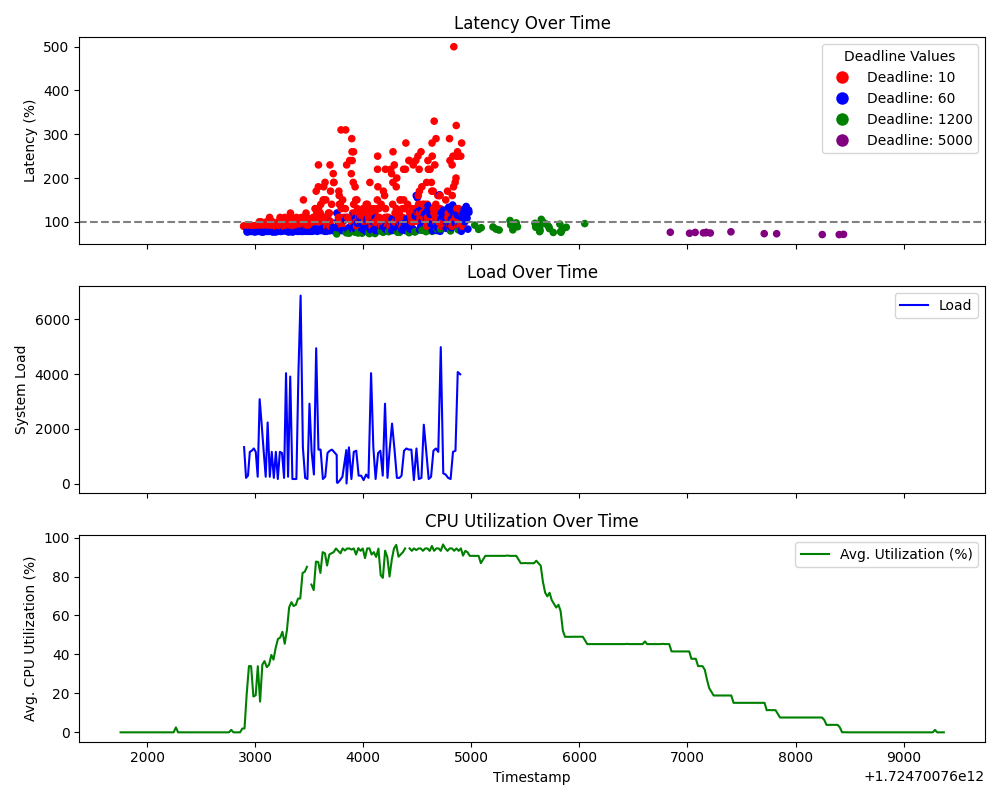
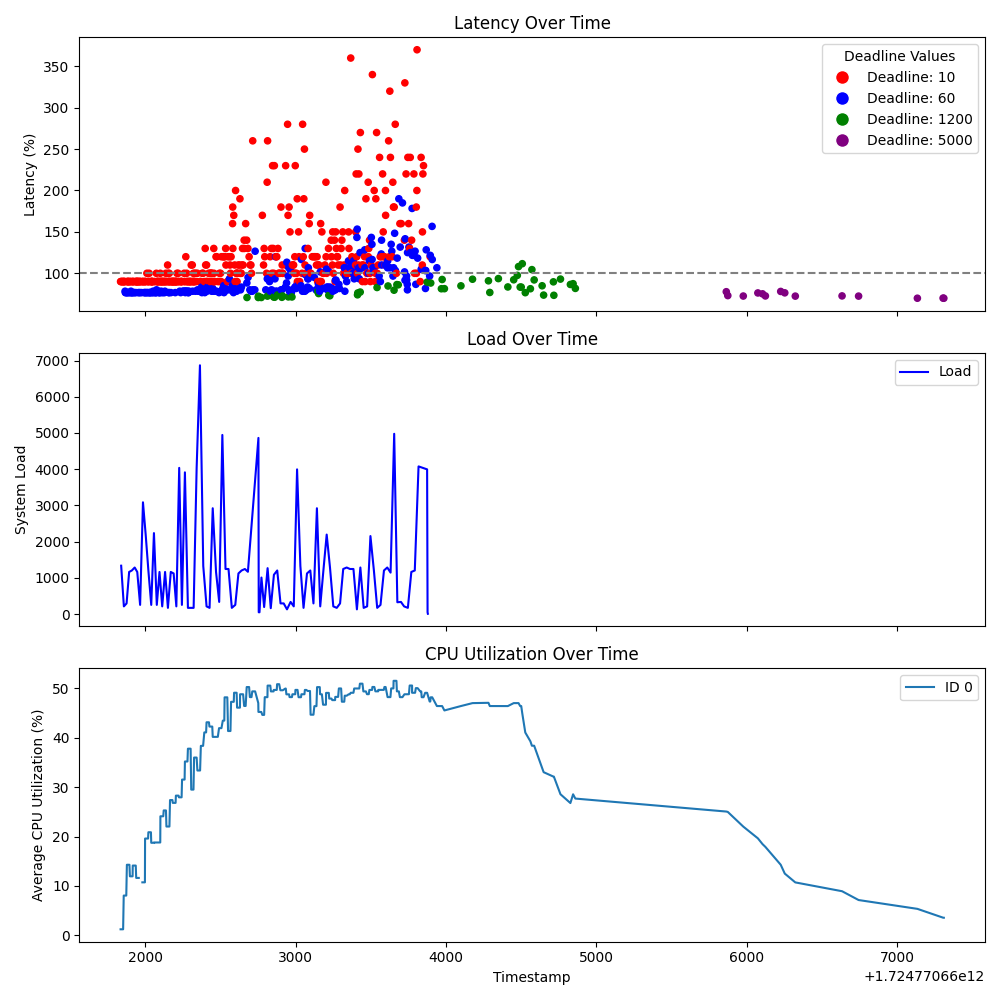
have the lb collect the util info and print it, in order to support potentially multiple dispatchers

diff --git a/gen_graph.py b/gen_graph.py
@@ -1,12 +1,12 @@
 import pandas as pd
 import matplotlib.pyplot as plt
-import numpy as np
+from collections import defaultdict
 
 # Initialize dictionaries to store data
 load_data = {}
-util_data = {}
 latency_data = {}
 deadline_data = {}
+util_data = defaultdict(list)  # Using defaultdict to handle multiple IDs
 
 # Read load.txt and store data
 with open('load.txt', 'r') as f:
@@ -21,8 +21,12 @@ with open('util.txt', 'r') as f:
     for line in f:
         timestamp, util_values = line.strip().split(" -- ")
         timestamp = int(timestamp)
-        util_values = [float(val.split(": ")[1]) for val in util_values.split(",")[:-1]]
-        util_data[timestamp] = util_values
+        id_util_pairs = util_values.split(", ")
+        for pair in id_util_pairs:
+            id, utilization = pair.split(": ")
+            id = int(id)
+            utilization = float(utilization)
+            util_data[id].append((timestamp, utilization))
 
 # Read latency.txt and store data
 with open('latency.txt', 'r') as f:
@@ -37,7 +41,6 @@ with open('latency.txt', 'r') as f:
 
 # Convert dictionaries to Pandas DataFrames for easier manipulation
 load_df = pd.DataFrame(list(load_data.items()), columns=['Timestamp', 'Load'])
-util_df = pd.DataFrame(list(util_data.items()), columns=['Timestamp', 'Utilization'])
 latency_df = pd.DataFrame(list(latency_data.items()), columns=['Timestamp', 'Latency'])
 deadline_df = pd.DataFrame(list(deadline_data.items()), columns=['Timestamp', 'Deadline'])
 
@@ -56,7 +59,7 @@ colors = {
 latency_df['Color'] = latency_df['Deadline'].map(colors)
 
 # Plotting
-fig, axes = plt.subplots(3, 1, figsize=(10, 8), sharex=True)
+fig, axes = plt.subplots(3, 1, figsize=(10, 10), sharex=True)
 
 # Latency plot with colored dots based on deadline values
 sc = axes[0].scatter(latency_df['Timestamp'], latency_df['Latency'],
@@ -77,11 +80,12 @@ axes[1].set_ylabel('System Load')
 axes[1].set_title('Load Over Time')
 axes[1].legend()
 
-# Utilization plot
-# Assuming CPU indices are consistent across all timestamps
-util_df['Average Utilization'] = util_df['Utilization'].apply(lambda x: sum(x)/len(x))
-axes[2].plot(util_df['Timestamp'], util_df['Average Utilization'], label='Avg. Utilization (%)', color='green')
-axes[2].set_ylabel('Avg. CPU Utilization (%)')
+# Utilization plot with different lines for each ID
+for id, data in util_data.items():
+    data_df = pd.DataFrame(data, columns=['Timestamp', 'Utilization'])
+    axes[2].plot(data_df['Timestamp'], data_df['Utilization'], label=f'ID {id}')
+
+axes[2].set_ylabel('Average CPU Utilization (%)')
 axes[2].set_title('CPU Utilization Over Time')
 axes[2].legend()
 
@@ -89,3 +93,101 @@ axes[2].legend()
 plt.xlabel('Timestamp')
 plt.tight_layout()
 plt.savefig('plot.png')
+
+
+
+
+
+
+
+# import pandas as pd
+# import matplotlib.pyplot as plt
+# import numpy as np
+
+# # Initialize dictionaries to store data
+# load_data = {}
+# util_data = {}
+# latency_data = {}
+# deadline_data = {}
+
+# # Read load.txt and store data
+# with open('load.txt', 'r') as f:
+#     for line in f:
+#         timestamp, load_value = line.strip().split(", load: ")
+#         timestamp = int(timestamp)
+#         load_value = int(load_value)
+#         load_data[timestamp] = load_value
+
+# # Read util.txt and store data
+# with open('util.txt', 'r') as f:
+#     for line in f:
+#         timestamp, util_values = line.strip().split(" -- ")
+#         timestamp = int(timestamp)
+#         util_values = [float(val.split(": ")[1]) for val in util_values.split(",")[:-1]]
+#         util_data[timestamp] = util_values
+
+# # Read latency.txt and store data
+# with open('latency.txt', 'r') as f:
+#     for line in f:
+#         parts = line.strip().split(", ")
+#         timestamp = int(parts[0].split(" - latency: ")[0])
+#         outside_time = int(parts[1].split(": ")[1][:-1])
+#         deadline = int(parts[2].split(": ")[1])
+#         latency_percentage = (outside_time / deadline) * 100
+#         latency_data[timestamp] = latency_percentage
+#         deadline_data[timestamp] = deadline
+
+# # Convert dictionaries to Pandas DataFrames for easier manipulation
+# load_df = pd.DataFrame(list(load_data.items()), columns=['Timestamp', 'Load'])
+# util_df = pd.DataFrame(list(util_data.items()), columns=['Timestamp', 'Utilization'])
+# latency_df = pd.DataFrame(list(latency_data.items()), columns=['Timestamp', 'Latency'])
+# deadline_df = pd.DataFrame(list(deadline_data.items()), columns=['Timestamp', 'Deadline'])
+
+# # Merge latency_df and deadline_df
+# latency_df = latency_df.merge(deadline_df, on='Timestamp')
+
+# # Define colors for each distinct deadline value
+# colors = {
+#     10: 'red',   # Example color for deadline value 1000
+#     60: 'blue',  # Example color for deadline value 2000
+#     1200: 'green', # Example color for deadline value 3000
+#     5000: 'purple' # Example color for deadline value 4000
+# }
+
+# # Map the colors to the deadlines
+# latency_df['Color'] = latency_df['Deadline'].map(colors)
+
+# # Plotting
+# fig, axes = plt.subplots(3, 1, figsize=(10, 8), sharex=True)
+
+# # Latency plot with colored dots based on deadline values
+# sc = axes[0].scatter(latency_df['Timestamp'], latency_df['Latency'],
+#                      c=latency_df['Color'], marker='o', s=20)
+# axes[0].axhline(y=100, color='gray', linestyle='--', label='Threshold: 100')
+# axes[0].set_ylabel('Latency (%)')
+# axes[0].set_title('Latency Over Time')
+# axes[0].legend()
+
+# # Create a legend manually
+# handles = [plt.Line2D([0], [0], marker='o', color='w', markerfacecolor=color, markersize=10, label=f'Deadline: {deadline}')
+#            for deadline, color in colors.items()]
+# axes[0].legend(handles=handles, title='Deadline Values')
+
+# # Load plot
+# axes[1].plot(load_df['Timestamp'], load_df['Load'], label='Load', color='blue')
+# axes[1].set_ylabel('System Load')
+# axes[1].set_title('Load Over Time')
+# axes[1].legend()
+
+# # Utilization plot
+# # Assuming CPU indices are consistent across all timestamps
+# util_df['Average Utilization'] = util_df['Utilization'].apply(lambda x: sum(x)/len(x))
+# axes[2].plot(util_df['Timestamp'], util_df['Average Utilization'], label='Avg. Utilization (%)', color='green')
+# axes[2].set_ylabel('Avg. CPU Utilization (%)')
+# axes[2].set_title('CPU Utilization Over Time')
+# axes[2].legend()
+
+# # Formatting the x-axis with timestamps
+# plt.xlabel('Timestamp')
+# plt.tight_layout()
+# plt.savefig('plot.png')

diff --git a/dispatcher/website_ex_srv.h b/dispatcher/website_ex_srv.h
@@ -48,8 +48,7 @@ class WebsiteServerImp final {
     cq_->Shutdown();
   }
 
-  WebsiteServerImp() {}
-  WebsiteServerImp(Queue* q) : proc_queue_(q), global_start_(std::chrono::high_resolution_clock::now()) {}
+  WebsiteServerImp(Queue* q, float* curr_util, std::mutex& util_lock) : proc_queue_(q), curr_util_(curr_util), util_lock_(util_lock) {}
 
   // There is no shutdown handling in this code.
   void Run(string port) {
@@ -70,8 +69,8 @@ class WebsiteServerImp final {
  // Class encompasing the state and logic needed to serve a request.
   class CallData {
    public:
-    CallData(WebsiteServer::AsyncService * service, ServerCompletionQueue* cq, Queue* q, std::chrono::high_resolution_clock::time_point global_start)
-        : service_(service), cq_(cq), responder_(&ctx_), status_(CREATE), p_q_(q), g_s_(global_start) {
+    CallData(WebsiteServer::AsyncService * service, ServerCompletionQueue* cq, Queue* q, float *curr_util, std::mutex& util_lock)
+        : service_(service), cq_(cq), responder_(&ctx_), status_(CREATE), p_q_(q), curr_util_(curr_util), util_lock_(util_lock) {
       Proceed();
     }
 
@@ -82,7 +81,7 @@ class WebsiteServerImp final {
         service_->RequestMakeCall(&ctx_, &request_, &responder_, cq_, cq_,
                                   this);
       } else if (status_ == PROCESS) {
-        new CallData(service_, cq_, p_q_, g_s_);
+        new CallData(service_, cq_, p_q_, curr_util_, util_lock_);
 
         auto start_time = std::chrono::high_resolution_clock::now();
 
@@ -162,6 +161,9 @@ class WebsiteServerImp final {
         reply_.set_retval(sum);
         reply_.set_rusage(runtime);
         reply_.set_timepassed(time_since_(start_time));
+        util_lock_.lock();
+        reply_.set_currutil(*curr_util_);
+        util_lock_.unlock();
 
         status_ = FINISH;
         responder_.Finish(reply_, Status::OK, this);
@@ -216,7 +218,8 @@ class WebsiteServerImp final {
     CallStatus status_; 
 
     Queue* p_q_;
-    std::chrono::high_resolution_clock::time_point g_s_;
+    float *curr_util_;
+    std::mutex& util_lock_;
   };
 
 
@@ -230,7 +233,7 @@ class WebsiteServerImp final {
         cout << "set affinity had an error" << endl;
     }
     
-    new CallData(&service_, cq_.get(), proc_queue_, global_start_);
+    new CallData(&service_, cq_.get(), proc_queue_, curr_util_, util_lock_);
     void* tag;  // uniquely identifies a request.
     bool ok;
     std::vector<std::thread> threads;
@@ -261,6 +264,7 @@ class WebsiteServerImp final {
   WebsiteServer::AsyncService service_;
   std::unique_ptr<Server> server_;
   Queue* proc_queue_;
-  std::chrono::high_resolution_clock::time_point global_start_;
+  float *curr_util_;
+  std::mutex& util_lock_;
 };
 

diff --git a/dispatcher/dispatcher.cc b/dispatcher/dispatcher.cc
@@ -68,7 +68,7 @@ void dump_stats(const std::vector<double>& usage, const std::string& filename) {
     file << std::endl;
 }
 
-void calculate_and_dump_usage(const std::string& filename) {
+void calculate_and_dump_usage(float* curr_util, std::mutex& util_lock) {
     std::vector<CPUStats> prev_stats;
     std::vector<CPUStats> curr_stats;
 
@@ -77,6 +77,7 @@ void calculate_and_dump_usage(const std::string& filename) {
     get_stats(curr_stats);
 
     std::vector<double> usage(prev_stats.size());
+    float sum = 0.0;
 
     for (size_t i = 0; i < prev_stats.size(); ++i) {
         long long prev_idle = prev_stats[i].get_idle_time();
@@ -88,19 +89,22 @@ void calculate_and_dump_usage(const std::string& filename) {
         long long idle_diff = curr_idle - prev_idle;
 
         usage[i] = 100.0 * (1.0 - (double)idle_diff / total_diff);
+        sum += 100.0 * (1.0 - (double)idle_diff / total_diff);
     }
 
-    dump_stats(usage, filename);
+    float avg = sum / prev_stats.size();
+
+    util_lock.lock();
+    *curr_util = avg;
+    util_lock.unlock();
+    
 }
 
-void run_util_dumps() {
-    const std::string filename = "../util.txt";
-    // truncate the file to clear any previous contents
-    std::ofstream file(filename, std::ios::trunc);
+void run_util_dumps(float* curr_util, std::mutex& util_lock) {
 
     while (true) {
         // func sleeps for 10 ms and looks for the diff, logs it
-        calculate_and_dump_usage(filename);
+        calculate_and_dump_usage(curr_util, util_lock);
     }
 
 }
@@ -131,15 +135,17 @@ void Dispatcher::run() {
     cout << "dispatcher main process: " << getpid() << endl;
 
     Queue* q = new Queue();
+    float *curr_util = new float(0.0f);
+    std::mutex util_lock;
 
     // start mainSrv
     MainServerImp server = MainServerImp(q);
-    WebsiteServerImp web_server = WebsiteServerImp(q);
+    WebsiteServerImp web_server = WebsiteServerImp(q, curr_util, std::ref(util_lock));
 
     std::thread t1(&MainServerImp::Run, &server, DISPATCHER_MAIN_PORT);
     std::thread t2(&WebsiteServerImp::Run, &web_server, DISPATCHER_WEBSITE_PORT);
 
-    std::thread t3(run_util_dumps);
+    std::thread t3(run_util_dumps, curr_util, std::ref(util_lock));
 
     t1.join();
     t2.join();

diff --git a/lb/lb.cc b/lb/lb.cc
@@ -18,6 +18,7 @@ using namespace std;
 
 string load_file = "../load.txt";
 string latency_file = "../latency.txt";
+string util_file = "../util.txt";
 
 int curr_load_count_iter = 1;
 
@@ -68,11 +69,15 @@ void LB::runProc(WebsiteClient* to_use, ProcType type, string type_str) {
     
     std::chrono::duration<double> since_start = std::chrono::duration_cast<std::chrono::duration<double>>(std::chrono::high_resolution_clock::now() - start_time);
     int ms_since_start = 1000 * since_start.count();
+
+    std::ostringstream to_write_util;
+    to_write_util << get_curr_time_ms() << " -- " << to_use->id << ": " << reply.currutil() << endl;
+    writeToOutFile(util_file, to_write_util.str());
     
-    std::ostringstream to_write;
-    to_write << get_curr_time_ms() << " - latency: time passed: (inside: " << reply.timepassed() << ", outside: " 
+    std::ostringstream to_write_lat;
+    to_write_lat << get_curr_time_ms() << " - latency: time passed: (inside: " << reply.timepassed() << ", outside: " 
         << ms_since_start << "), deadline: " << types_.at(type).deadline  << endl;
-    writeToOutFile(latency_file, to_write.str());
+    writeToOutFile(latency_file, to_write_lat.str());
 
 }
 
@@ -85,6 +90,8 @@ void LB::runBench() {
     f1.close();
     std::ofstream f2(latency_file, std::ios::trunc);
     f2.close();
+    std::ofstream f3(util_file, std::ios::trunc);
+    f3.close();
 
     int curr_sum_load = 0;
     int size_load_count_iter = 10;
@@ -162,7 +169,7 @@ void LB::init() {
 
     // connect to all the dispatchers
     MainClient* main_clnt = new MainClient(grpc::CreateChannel(string("0.0.0.0:") + DISPATCHER_MAIN_PORT, grpc::InsecureChannelCredentials()));
-    WebsiteClient* website_clnt = new WebsiteClient(grpc::CreateChannel(string("0.0.0.0:") + DISPATCHER_WEBSITE_PORT, grpc::InsecureChannelCredentials()));
+    WebsiteClient* website_clnt = new WebsiteClient(grpc::CreateChannel(string("0.0.0.0:") + DISPATCHER_WEBSITE_PORT, grpc::InsecureChannelCredentials()), 0);
 
     dispatchers_.push_back({main_clnt, website_clnt});
 

diff --git a/lb/website_ex_clnt.h b/lb/website_ex_clnt.h
@@ -15,8 +15,8 @@ using mainserver::RetVal;
 
 class WebsiteClient {
  public:
-  explicit WebsiteClient(std::shared_ptr<Channel> channel)
-      : stub_(WebsiteServer::NewStub(channel)) {}
+  explicit WebsiteClient(std::shared_ptr<Channel> channel, int given_id)
+      : stub_(WebsiteServer::NewStub(channel)), id(given_id) {}
 
   // Assembles the client's payload, sends it and presents the response back
   // from the server.
@@ -63,6 +63,8 @@ class WebsiteClient {
 
     return reply;
   }
+
+  int id;
 
  private:
   // Out of the passed in Channel comes the stub, stored here, our view of the
